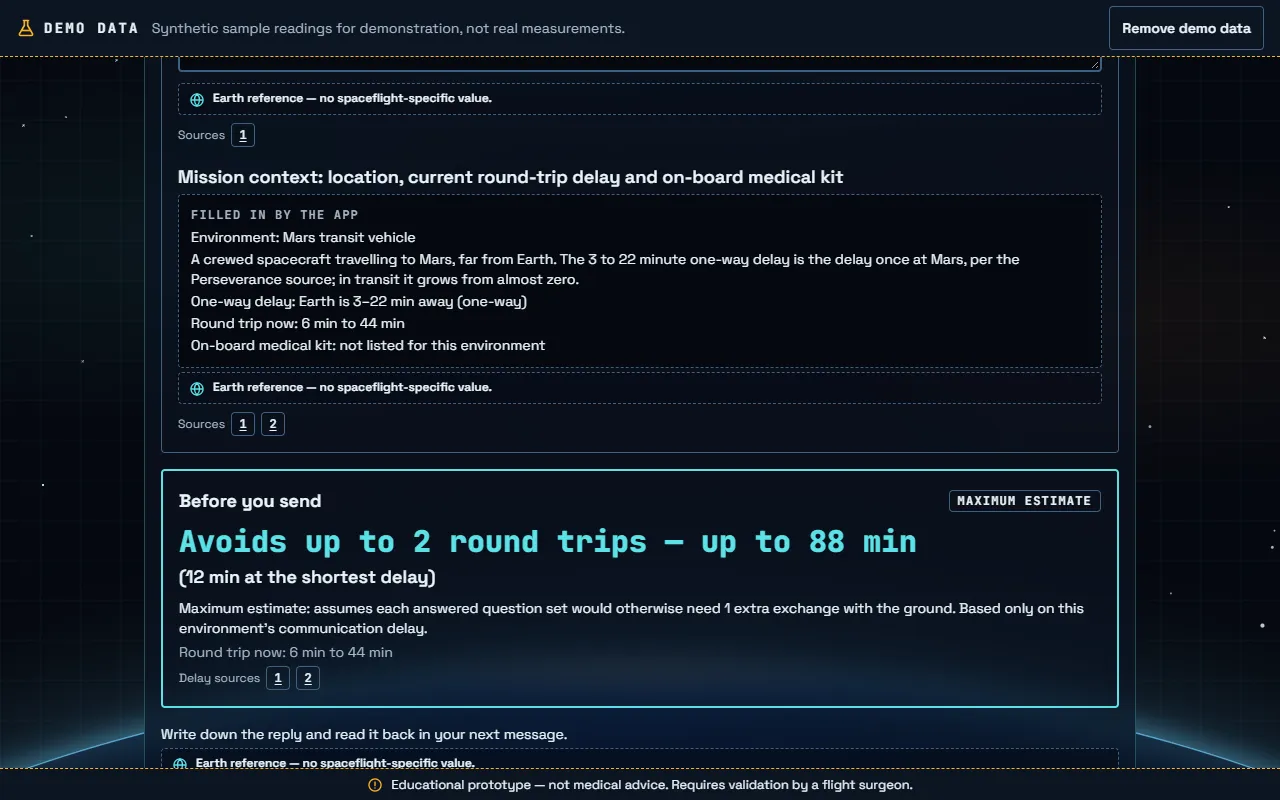
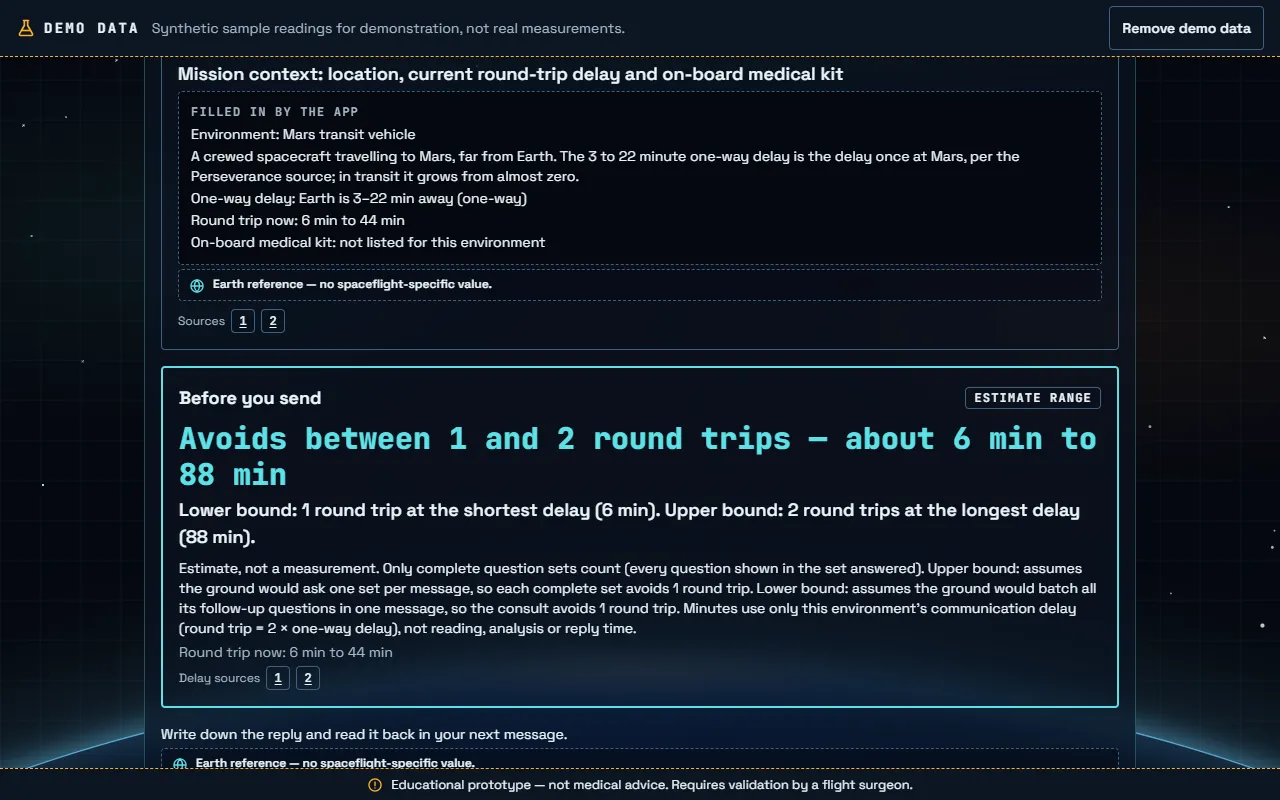
docs: guion, README y pitch alineados con la demo coherente y el contador en rango
- Guion de video: orden nuevo (consciente con dolor de pecho → consult → contador →
  colapso → protocolo → informe), tabla de tiempos actualizada, sin "leaves nothing to
  ask"; la voz en off dice que el contador es un rango estimado.
- README y pitch: contador "Avoids between 1 and N round trips — about A to B" con sus
  dos supuestos (Marte, N = 2: 6 a 88 min) y orden nuevo de la Guided demo.
- Captura del contador regenerada; progress.md y si-log.md.

Changed region(s): [[0.125, 0.0625, 0.875, 0.8125]]

diff --git a/README.md b/README.md
@@ -9,23 +9,23 @@ A NASA Space Apps Challenge 2026 project for the challenge *Create Health Monito
 
 Earth Is Far is a browser app that helps astronauts who are not doctors check their own health, understand the result and act on it, even when the flight surgeon is minutes of signal delay away. A command takes 3 to 22 minutes to reach Mars one way (NASA Science), and the Canadian Space Agency notes that Moon and Mars missions mean less ability to rely on Earth for emergency medical assistance. The app treats that **communication delay as a design variable**: when ground help is needed and the delay is above a configurable threshold, it says to act now with the crew protocol and then report to ground, and it shows the earliest and latest time an answer from Earth could arrive. Every scientific claim in the app links to a source, and all content lives in JSON files, not in code.
 
-**The signature feature is the One-shot consult:** a medical consult rethought for a delayed conversation. Instead of a question-and-answer loop with Earth, where every follow-up costs a full round trip, the crew answers in advance the questions a doctor would usually ask back and sends everything in one message. A counter shows how many round trips that can avoid, as a maximum estimate computed only from the environment's communication delay.
+**The signature feature is the One-shot consult:** a medical consult rethought for a delayed conversation. Instead of a question-and-answer loop with Earth, where every follow-up costs a full round trip, the crew answers in advance the questions a doctor would usually ask back and sends everything in one message. A counter shows how many round trips that can avoid, as an estimate range computed only from complete question sets and the environment's communication delay.
 
 | Status board (demo data) | One-shot consult counter |
 |---|---|
-| ![Status board with the body map, vital signs and trends; demo data, Mars transit vehicle](docs/screenshots/status-board.webp) | ![One-shot consult counter: Avoids up to 2 round trips, up to 88 min, labeled Maximum estimate](docs/screenshots/one-shot-consult-counter.webp) |
+| ![Status board with the body map, vital signs and trends; demo data, Mars transit vehicle](docs/screenshots/status-board.webp) | ![One-shot consult counter: Avoids between 1 and 2 round trips, about 6 min to 88 min, labeled Estimate range, with its assumptions](docs/screenshots/one-shot-consult-counter.webp) |
 
 ### Key features
 
 - **One-shot consult (Downlink report).** Pick the main problem (chest pain, abdominal pain, headache, injury, breathing, fever or feeling unwell, other), then answer by module: OPQRST for acute pain, SAMPLE for a focused history, a 0–10 pain scale, injury questions and the minimum data for a remote physician. Chest pain first links to the step-by-step protocol. The app fills in the UTC time, the latest readings with their time and the mission context (environment, delay, on-board kit). 28 questions, each with its source (14 sources, loaded only from an independent verification pass). It does not diagnose or suggest treatment. The answers go into the report text and JSON, with "not answered" where blank; the draft is saved on the device and removed by Clear saved data.
-- **Round-trip counter.** "Avoids up to *N* round trips — up to *X* min", labeled **Maximum estimate**. *N* = question sets with at least one answer × `consult.round_trips_per_answered_set` (1, a design assumption in `config/app.json`); *X* = *N* × 2 × the selected environment's sourced one-way delay, plus the figure at the shortest delay when there is a range. On the Mars transit vehicle (3–22 min one way), two answered sets read "up to 88 min (12 min at the shortest delay)". No paper figures and no analysis time are used; without a verified delay it shows no minutes.
+- **Round-trip counter.** "Avoids between 1 and *N* round trips — about *A* to *B* min", labeled **Estimate range**, with its assumptions on screen. Only **complete** question sets count: every question shown in the set (not filled in by the app, not hidden by a skip rule) has an answer. *N* = complete sets × `consult.upper_round_trips_per_complete_set` (1: the ground would ask one set per message). The lower bound is `consult.lower_round_trips` (1: the ground would batch all its follow-up questions in one message). Minutes: *A* = lower bound × 2 × the shortest one-way delay; *B* = *N* × 2 × the longest one-way delay, both from the selected environment's sourced delay. On the Mars transit vehicle (3–22 min one way), two complete sets read "Avoids between 1 and 2 round trips — about 6 min to 88 min". With no complete set it claims no saving; without a verified delay it shows no minutes. No paper figures and no analysis or reply time are used.
 - **Status board (HUD).** A body figure with clickable zones (head, chest, abdomen, arm, whole body). Each zone shows the worst status of its indicators, and the zone details panel lists the readings, the NASA hazards each indicator watches and what to do. Vital-sign rows, 7-day trend charts, a status ring and the delay / ground-answer panel sit around the body. Status is always color **plus** icon **plus** text.
 - **Honest trend extrapolation.** Each 7-day chart can extend a dotted, neutral least-squares line 24 h past the last reading (`hud.projection` in `config/app.json`: design parameters, not medical), after a "Now" divider and labeled "Trend extrapolation (demo) — not a medical prediction". It never predicts a status or a range crossing.
 - **Daily check.** A step-by-step wizard for 6 indicators (heart rate, blood pressure, blood glucose, body temperature, sleep, mood). For each one it explains **how to measure** in plain words, why it matters and how often, then takes the value, shows the status, what to do and who to escalate to (self, crew or flight surgeon on the ground), with the expected answer time.
 - **Emergency mode.** An always-visible red Emergency button opens large step-by-step cards. Each step is marked as done with a timestamp, with a running timer and a log that survives a reload. Protocols: *Crewmate collapsed / not responding* (recognition and call for help from Earth guidance, plus microgravity CPR from the DGLRM/ESAM-SMG guideline) and *Crewmate with chest pain (conscious)*, which links to the collapse protocol.
 - **Downlink report.** One complete message for the flight surgeons, so no back-and-forth is needed: readings with trends, the emergency action log, the One-shot consult, a checklist of what to include, and the **ground answer window** (now + 2 × the one-way delay). Copy it, or download it as `.txt` or `.json`.
 - **Environments.** Mars transit vehicle, lunar surface base, space station and remote clinic on Earth. The selected environment's delay changes the escalation guidance.
-- **Guided demo.** A button on the status board runs a scripted walkthrough of about 90 seconds (a Mars emergency with demo data) that ends with the One-shot consult and its counter. It restores the environment, emergency log, consult draft and demo data when it ends.
+- **Guided demo.** A button on the status board runs a scripted walkthrough of about 90 seconds with demo data, following the challenge scenario: a heart-rate alert, the crewmate is conscious with chest pain and answers the One-shot consult (demo answers of a fictional crewmate), the counter, then the crewmate collapses and the crew follows the collapse protocol, ending on the Downlink report. It restores the environment, emergency log, consult draft and demo data when it ends.
 - **Sources view with per-datum coverage.** Every source with URL, access date, licence and verification status, and where each source is cited. A verification summary counts coverage **per data point** (each instruction, threshold, action, protocol step and environment delay): today **57 of 79 data points are sourced** (indicators 44 of 61, protocol steps 11 of 14, environment delays 2 of 4), computed by `src/logic/coverage.ts`. Unsourced data never shows a raw PLACEHOLDER marker: the UI says "No verified source yet".
 - **Accessibility.** Keyboard navigation, skip link, AA contrast, reduced-motion support, and axe checks in the QA suite.
 - **No backend.** Readings stay in the browser (localStorage). Demo readings are synthetic, labeled DEMO DATA and removable.
@@ -83,10 +83,10 @@ All content lives in JSON. Components only read and display it. Changing the mis
 | `data/demo-readings.json` | Synthetic DEMO DATA covering about 7 days (status is evaluated from the ranges, never stored) |
 | `data/consult.json` | The One-shot consult: help texts, symptoms, question sets (OPQRST, SAMPLE, pain scale, injury, remote physician) and answer types, each with sources or marked as design text |
 | `data/guided-demo.json` | The Guided demo script (scenario, demo consult answers and steps) |
-| `config/app.json` | App name, tagline, theme tokens, feature flags, realtime threshold, disclaimer, body image, HUD layout (including the trend extrapolation) and the consult counter assumption |
+| `config/app.json` | App name, tagline, theme tokens, feature flags, realtime threshold, disclaimer, body image, HUD layout (including the trend extrapolation) and the consult counter assumptions |
 | `config/strings.en.json` | Every UI text (English) |
 
-**Validation.** All files are validated with **zod** when the app loads, plus cross-checks (every `source_ids` entry exists, ranges touch without gaps or overlaps, linked protocols exist, consult modules and `skip_if` references exist, guided demo step durations add up to the declared total and its demo consult answers are valid options). A mistake shows a content error screen listing the **file**, the **field path** (for example `indicators[2].ranges[1].min` in `data/indicators.json`) and the problem in plain words.
+**Validation.** All files are validated with **zod** when the app loads, plus cross-checks (every `source_ids` entry exists, ranges touch without gaps or overlaps, linked protocols exist, consult modules and `skip_if` references exist, guided demo step durations add up to the declared total and its demo consult answers match each question type and options). A mistake shows a content error screen listing the **file**, the **field path** (for example `indicators[2].ranges[1].min` in `data/indicators.json`) and the problem in plain words.
 
 **VERIFIED vs PLACEHOLDER.** Anything without a verified source is marked `"status": "PLACEHOLDER"` (or its text starts with `PLACEHOLDER:`), and the UI shows a placeholder badge. The schema refuses `VERIFIED` without at least one source, and a `VERIFIED` source needs a real http(s) URL and an access date. Nobody invents medical thresholds, figures or quotes. Design parameters (escalation levels, `realtime_threshold_s`, body zones, chosen measuring intervals) are labeled as design decisions in each file's `_comment`.
 
@@ -102,7 +102,7 @@ All content lives in JSON. Components only read and display it. Changing the mis
 
 ### How the Guided demo is defined
 
-`data/guided-demo.json` holds a `scenario` (environment `spacecraft`, alert indicator `heart_rate`, protocol `crew_collapse_chest_pain`, and `consult`: symptom `chest_pain` with two DEMO answers, "Suddenly" for onset and "No" for known allergies) and a list of `steps`. Each step has a `route` (hash of the view), a CSS `target` to highlight (may use `{zone}` / `{indicator}`), a `caption_key` from `config/strings.en.json`, a `duration_ms`, and an optional `action` (`set_environment`, `select_alert_zone`, `open_protocol`, `mark_step_done`, `open_consult`, `select_consult_symptom`, `fill_consult_demo`). The loader checks that the demo answers are real options of questions in that symptom's modules. `design_total_duration_ms` must equal the sum of the step durations (90 s today). The flow (14 steps): environment → status board → alert zone → alert vital → ground answer → Emergency button → protocol → two steps marked done with the log → One-shot consult opened → chest pain selected → two demo answers → the counter → Downlink report with the answer window. With reduced motion on, the demo does not advance by itself (use Next). When it ends (Finish, Esc or a reload), the environment, emergency session and log, consult draft and demo readings go back to how they were. The `guided_demo` flag in `config/app.json` turns the button on or off.
+`data/guided-demo.json` holds a `scenario` (environment `spacecraft`, alert indicator `heart_rate`, protocol `crew_collapse_chest_pain`, and `consult`: symptom `chest_pain` with DEMO answers of a fictional crewmate, given while conscious: the OPQRST and pain-scale sets complete (for example onset "Suddenly", "pressure", centre of the chest, 6 of 10) and only allergies ("No") from SAMPLE, so SAMPLE does not count) and a list of `steps`. Each step has a `route` (hash of the view), a CSS `target` to highlight (may use `{zone}` / `{indicator}`), a `caption_key` from `config/strings.en.json`, a `duration_ms`, and an optional `action` (`set_environment`, `select_alert_zone`, `open_protocol`, `mark_step_done`, `open_consult`, `select_consult_symptom`, `fill_consult_demo`). Each demo answer has `value` (a choice option or 0–10), `text` (free text) or `minutes_ago` (a time relative to when the demo runs); the loader checks them against the question type in that symptom's modules. `design_total_duration_ms` must equal the sum of the step durations (90 s today). The flow (14 steps): environment → status board → alert zone → alert vital → ground answer → One-shot consult opened → chest pain selected (with the link to the conscious chest-pain protocol) → the conscious crewmate's demo answers → the counter → the crewmate collapses: Emergency button → collapse protocol → two steps marked done with the log → Downlink report with the consult, the log and the answer window. With reduced motion on, the demo does not advance by itself (use Next). When it ends (Finish, Esc or a reload), the environment, emergency session and log, consult draft and demo readings go back to how they were. The `guided_demo` flag in `config/app.json` turns the button on or off.
 
 ## Sources and verification
 
@@ -140,7 +140,7 @@ This project was built with heavy AI assistance. Every relevant use is logged in
   - Mood: a personal 1–5 log with no labels, ranges or actions; a validated screen (PHQ-2) is verified but not implemented.
 - **Chest-pain protocol is partial:** the alert channel, medication and positioning steps are PLACEHOLDER. The collapse protocol is VERIFIED but its recognition and call-for-help steps are Earth guidance.
 - **Earth ranges are not validated for spaceflight.** Every range is an Earth reference for adults and carries that label in the app.
-- **The consult counter is a maximum estimate.** "1 extra exchange per answered question set" is a design assumption, not a measured figure, and the minutes come only from the environment's delay (no reading, analysis or reply time). The consult only collects information: no diagnosis, no treatment advice, no photo attachment. Several of its items are maritime or Earth emergency references and are labeled as such.
+- **The consult counter is an estimate range.** Both bounds are design assumptions, not measured figures: 1 round trip if the ground batches its questions, 1 per complete set if it asks set by set. The minutes come only from the environment's delay (no reading, analysis or reply time). The consult only collects information: no diagnosis, no treatment advice, no photo attachment. Several of its items are maritime or Earth emergency references and are labeled as such.
 - **The trend extrapolation is not a prediction.** It is a straight line through demo readings, shown only to illustrate the chart.
 - **Delays:** space station and remote clinic have no sourced communication delay yet.
 - **Demo data is synthetic** (DEMO DATA), not real measurements.

diff --git a/docs/video-script.md b/docs/video-script.md
@@ -1,40 +1,39 @@
 # Video script — Earth Is Far (60–90 s)
 
-Target length: about 88 seconds. The middle of the video follows the **Guided demo** (`data/guided-demo.json`, 14 steps, 90 s on its own): environment → status board → alert → Emergency → protocol steps → **One-shot consult** (chest pain, two demo answers, counter) → Downlink report. The demo is trimmed in editing (or advanced with Next) to fit the voice-over. Every figure said aloud comes from `data/sources.json` or is computed by the app:
+Target length: about 88 seconds. The middle of the video follows the **Guided demo** (`data/guided-demo.json`, 14 steps, 90 s on its own): environment → status board → heart-rate alert → the crewmate is **conscious with chest pain** and answers the **One-shot consult** (chest pain, demo answers of a fictional crewmate, counter) → the crewmate **collapses** → Emergency → collapse protocol steps → Downlink report. Nobody asks an unconscious person about their pain: the consult happens while the crewmate can still talk. The demo is trimmed in editing (or advanced with Next) to fit the voice-over. Every figure said aloud comes from `data/sources.json` or is computed by the app:
 
 - Mars one-way delay **3 to 22 minutes**: NASA Science, *Speaking Percy's Language* (`nasa_perseverance_comms`).
 - Moon and Mars missions bring **less ability to rely on Earth for emergency medical assistance**: Canadian Space Agency (`csa_why_science_in_space`). Paraphrased, not quoted.
 - On a Mars mission, **consulting doctors on Earth in real time may be impractical**: Yule et al. 2023 (`yule_2023_crew_autonomy`). Paraphrased.
 - OPQRST and SAMPLE are memory aids used in emergency care: Saranteas et al. 2019, Jayaprakash et al. 2016.
 - The answer window (6 to 44 minutes) is the app's own calculation: 2 × the one-way delay.
-- The counter "**Avoids up to 2 round trips — up to 88 min**" is the app's own **maximum estimate**: 2 answered question sets × 1 extra exchange per set (a design assumption) × the 44-minute maximum round trip. Always say "up to" and "estimate"; never present it as a measured saving.
+- The counter "**Avoids between 1 and 2 round trips — about 6 min to 88 min**" is the app's own **estimate range**. Only *complete* question sets count (every question in the set answered); the demo completes 2 (OPQRST and the pain scale). Lower bound: 1 round trip (if the ground batched all its follow-up questions in one message) × the 6-minute shortest round trip. Upper bound: 2 round trips (one per complete set, if the ground asked one set per message) × the 44-minute longest round trip. Both are design assumptions. Always say "estimate" and "between"; never present it as a measured saving.
 
 ## Guided demo timing (as defined in `data/guided-demo.json`)
 
 | Step | Duration | Step | Duration |
 |---|---|---|---|
-| 1 Environment | 6 s | 8 Protocol step marked done | 5 s |
-| 2 Status board | 5 s | 9 Protocol log | 5 s |
-| 3 Alert zone | 6 s | 10 One-shot consult opens | 6 s |
-| 4 Alert vital | 5 s | 11 Chest pain selected | 6 s |
-| 5 Ground answer | 6 s | 12 Two demo answers | 7 s |
-| 6 Emergency button | 4 s | 13 Counter | 10 s |
-| 7 Protocol opens | 7 s | 14 Downlink report | 12 s |
+| 1 Environment | 6 s | 8 Demo answers from the conscious crewmate | 8 s |
+| 2 Status board | 5 s | 9 Counter (estimate range) | 9 s |
+| 3 Alert zone | 6 s | 10 Crewmate collapses: Emergency button | 5 s |
+| 4 Alert vital | 5 s | 11 Collapse protocol opens | 6 s |
+| 5 Ground answer | 5 s | 12 Protocol step marked done | 5 s |
+| 6 One-shot consult opens | 6 s | 13 Protocol log | 5 s |
+| 7 Chest pain selected, conscious protocol linked | 6 s | 14 Downlink report | 13 s |
 
 ## Script
 
 | Time | On screen | Voice-over |
 |---|---|---|
-| 0:00–0:07 | Black screen, then the status board fades in on the starfield. Title text: "Halfway to Mars." | "Halfway to Mars, a crewmate feels chest pain and collapses. You are not a doctor." |
+| 0:00–0:07 | Black screen, then the status board fades in on the starfield. Title text: "Halfway to Mars." | "Halfway to Mars, a crewmate feels a sharp pain in the chest. Minutes later, they collapse. You are not a doctor." |
 | 0:07–0:15 | Text over the board: "Mars → Earth: 3–22 min one way (NASA)". Then: "Less ability to rely on Earth for emergency medical help (Canadian Space Agency)". | "A message takes 3 to 22 minutes to reach Mars, one way. Crews going to Mars can rely less on Earth for emergency medical help." |
 | 0:15–0:19 | Cursor clicks **Guided demo**. Step 1: Mars transit vehicle selected, header shows the delay. | "Earth Is Far is a health copilot built around that delay." |
-| 0:19–0:28 | Steps 2–4: overall status, the chest zone lights up on the body map, the heart-rate row with its trend. DEMO DATA banner visible. | "With demo data, heart rate needs attention, and the chest lights up. Every value links to its source." |
-| 0:28–0:32 | Steps 5–6: the **Delay & ground answer** panel, then the red **Emergency** button. | "Then the crewmate stops responding. One tap on Emergency." |
-| 0:32–0:43 | Steps 7–9: protocol *Crewmate collapsed / not responding*; a step is marked done; the timestamped log grows. | "Large, step-by-step cards, including CPR from a microgravity guideline. Every step is logged with its time." |
-| 0:43–0:52 | Steps 10–11: **One-shot consult** opens in the Downlink report; "Chest pain or pressure" is selected; the "Open the protocol first" note shows. | "Now the part we rethought. A medical consult is a conversation, and on Mars every follow-up question costs a round trip. So the app asks the doctor's usual questions up front: OPQRST for the pain, SAMPLE for the history." |
-| 0:52–0:57 | Step 12: two answers are picked (onset: Suddenly; allergies: No). Caption says DEMO. | "The crew answers what they can, and the app adds the time, the latest readings and the mission context." |
-| 0:57–1:08 | Step 13: the counter is highlighted: **"Avoids up to 2 round trips — up to 88 min"**, badge "Maximum estimate". Hold on it. | "This counter shows what one complete message can save: up to two round trips, up to 88 minutes here. It's a maximum estimate, based only on the communication delay. No diagnosis, no treatment advice: just one message that leaves nothing to ask." |
-| 1:08–1:15 | Step 14: back to the top of the **Downlink report**, the expected answer window highlighted. Click Copy. | "The downlink report sends it all at once. For Mars, the answer comes 6 to 44 minutes later. So the app says: act now, then report." |
+| 0:19–0:28 | Steps 2–5: overall status, the chest zone lights up on the body map, the heart-rate row with its trend, then the **Delay & ground answer** panel. DEMO DATA banner visible. | "With demo data, heart rate needs attention, and the chest lights up. Every value links to its source." |
+| 0:28–0:38 | Steps 6–7: **One-shot consult** opens in the Downlink report; "Chest pain or pressure" is selected; the link to the protocol for a conscious crewmate with chest pain shows first. | "The crewmate is still conscious. A medical consult is a conversation, and on Mars every follow-up question costs a round trip. So, while they can talk, the app asks the doctor's usual questions up front: OPQRST for the pain, SAMPLE for the history." |
+| 0:38–0:45 | Step 8: the crewmate's answers fill in (onset: Suddenly; "pressure"; centre of the chest; pain 6 of 10; allergies: No). Caption says DEMO answers of a fictional crewmate. | "The crewmate answers in their own words, and the app adds the time, the latest readings and the mission context. It records answers; it does not diagnose." |
+| 0:45–0:55 | Step 9: the counter is highlighted: **"Avoids between 1 and 2 round trips — about 6 min to 88 min"**, badge "Estimate range", the assumptions line below. Hold on it. | "The counter is an estimate range. Only complete question sets count. If Earth batches its follow-up questions, this saves one round trip; if it asks one set at a time, up to two. Here that is about 6 to 88 minutes, from the communication delay alone." |
+| 0:55–1:05 | Steps 10–13: the crewmate collapses; the red **Emergency** button; protocol *Crewmate collapsed / not responding*; a step is marked done; the timestamped log grows. | "Then the crewmate stops responding. One tap on Emergency: large step-by-step cards, including CPR from a microgravity guideline, each logged with its time." |
+| 1:05–1:15 | Step 14: the **Downlink report**: the consult answered before the collapse, the protocol log and the expected answer window highlighted. Click Copy. | "The downlink report sends it all at once: what the crewmate said while conscious, and what the crew did. For Mars, the answer comes 6 to 44 minutes later. So the app says: act now, then report." |
 | 1:15–1:20 | Quick cut: **Sources** view, "57 of 79 data points sourced". | "Every data point shows whether it has a verified source. What doesn't, says so." |
 | 1:20–1:24 | On-screen text: "Educational prototype — not medical advice. Earth reference ranges, synthetic demo data." | "It's a prototype, and a flight surgeon still has to validate it." |
 | 1:24–1:28 | Logo "Earth Is Far", tagline, repository / app link. | "Earth is far. Help shouldn't wait for a second message." |
@@ -44,7 +43,7 @@ Target length: about 88 seconds. The middle of the video follows the **Guided de
 - **Window size 1440 × 900** (browser zoom 100 %). That is the size the HUD layout was tuned for.
 - **Use the demo data.** On a fresh browser profile the demo readings load on the first visit (DEMO DATA banner). If you removed them, the Guided demo loads them again and removes them at the end. Never record real personal readings or a real consult.
 - **Start from the Guided demo button** on the status board. It runs about 90 s on its own; use Pause / Next to match the voice-over, or trim in editing. Esc exits. The demo opens a fresh consult and puts back any consult draft you had when it ends.
-- **Hold on the counter** (step 13) long enough to read it; pause the demo there if needed. The numbers depend on the selected environment (Mars transit vehicle).
+- **Hold on the counter** (step 9) long enough to read it; pause the demo there if needed. The numbers depend on the selected environment (Mars transit vehicle).
 - **Turn reduced motion off while recording** (Windows: Settings → Accessibility → Visual effects → Animation effects on). With reduced motion on, the demo does not advance by itself and the HUD animations stop.
 - **Captions:** burn in captions for the whole voice-over (many judges watch muted). Don't let them cover the demo's own captions or the highlighted element.
 - Keep the "Educational prototype — not medical advice" notice visible; don't crop it out.

diff --git a/docs/pitch.md b/docs/pitch.md
@@ -1,7 +1,7 @@
 # Earth Is Far — Health guidance for when help is light-minutes away
 
 ## The problem
-Halfway to Mars, a crewmate collapses. You are not a doctor, and the flight surgeon is far away: a command takes **3 to 22 minutes** to reach Mars one way, depending on planetary orbits (NASA Science [1]). Double that before an answer comes back. From the Moon the signal takes **1.27 s** on average (ESA [2]), so lunar crews can still talk to the ground. Mars crews can't. The Canadian Space Agency writes that Moon and Mars missions bring longer communication delays and **less ability to rely on Earth for emergency medical assistance** [3]. NASA's Human Research Program lists **five hazards** of human spaceflight, one of them distance from Earth: the farther the crew travels, the harder it is to get medical care from Earth [4][5].
+Halfway to Mars, a crewmate feels a sharp pain in the chest, and minutes later collapses. You are not a doctor, and the flight surgeon is far away: a command takes **3 to 22 minutes** to reach Mars one way, depending on planetary orbits (NASA Science [1]). Double that before an answer comes back. From the Moon the signal takes **1.27 s** on average (ESA [2]), so lunar crews can still talk to the ground. Mars crews can't. The Canadian Space Agency writes that Moon and Mars missions bring longer communication delays and **less ability to rely on Earth for emergency medical assistance** [3]. NASA's Human Research Program lists **five hazards** of human spaceflight, one of them distance from Earth: the farther the crew travels, the harder it is to get medical care from Earth [4][5].
 
 A medical consult is a conversation. The doctor asks, the patient answers, the doctor asks again. On the ISS, medical data go to flight surgeons on the ground for interpretation (Levin et al. [7]). On a Mars mission, consulting doctors on Earth in real time may be impractical (Yule et al. [8]): every follow-up question costs a full round trip.
 
@@ -11,7 +11,7 @@ A medical consult is a conversation. The doctor asks, the patient answers, the d
 - **Pick the main problem** (chest pain, abdominal pain, headache, injury, breathing, fever or feeling unwell, other). Chest pain first points to the step-by-step protocol: act now, consult after.
 - **Answer by module,** using structures from emergency care: **OPQRST** for acute pain (Saranteas et al. [9]), **SAMPLE** for a short focused history (Jayaprakash et al. [10]), a 0–10 pain scale, injury questions and the minimum data for a remote physician. The idea of filling in a form *before* asking for radio medical advice comes from maritime practice (UK MCA, *Ship Captain's Medical Guide* [11]); the app labels it as an Earth reference.
 - **The app fills in what it already knows:** UTC time, latest readings with their time, environment, current delay and on-board kit.
-- **A live counter shows the payoff:** "Avoids up to *N* round trips — up to *X* min". It is computed by the app, not taken from a paper: *N* = answered question sets × 1 extra exchange per set (a design assumption in `config/app.json`), and *X* = *N* × 2 × the selected environment's sourced one-way delay. On the Mars transit vehicle, answering two sets reads "Avoids up to 2 round trips — up to 88 min (12 min at the shortest delay)". It is labeled **Maximum estimate**; without a verified delay it shows no minutes.
+- **A live counter shows the payoff as a range:** "Avoids between 1 and *N* round trips — about *A* to *B* min". It is computed by the app, not taken from a paper. Only **complete** question sets count (every question in the set answered); *N* = complete sets. The upper bound assumes the ground would ask one set per message (*N* round trips at the longest one-way delay); the lower bound assumes it would batch all its follow-up questions in one message (1 round trip at the shortest delay). Both assumptions live in `config/app.json` and are shown under the counter. On the Mars transit vehicle (3–22 min one way), two complete sets read "Avoids between 1 and 2 round trips — about 6 min to 88 min", labeled **Estimate range**. With no complete set it claims nothing; without a verified delay it shows no minutes.
 - **No diagnosis, no treatment advice.** It only collects information. 28 questions, each with its source; 14 sources behind the module, from an independent verification pass (60 items: 38 VERIFIED, 16 VERIFIED-WITH-EDIT, 1 REJECTED, 5 BLOCKED; only the first two were loaded).
 
 Checklists and clinical guidance tools can help crews work with long communication delays (Yule et al. [8]). The One-shot consult is that idea, turned into a form that fits in one transmission.
@@ -21,7 +21,7 @@ Checklists and clinical guidance tools can help crews work with long communicati
 - **Daily check:** a wizard for 6 indicators: how to measure, why it matters, status, what to do and who to escalate to (self, crew, or flight surgeon on the ground).
 - **Emergency mode:** an always-visible red button opens large step-by-step cards, each logged with a timestamp. *Crewmate collapsed / not responding* includes microgravity CPR from the DGLRM/ESAM-SMG guideline [6].
 - **Downlink report:** one complete message for the flight surgeons with readings, trends, the emergency log, the One-shot consult and the expected answer window (now + 2 × one-way delay).
-- **Guided demo:** about 90 seconds, from an alert on the body map to the emergency protocol, the One-shot consult and its counter. It leaves nothing saved.
+- **Guided demo:** about 90 seconds, in the challenge's order: a heart-rate alert; the crewmate is conscious with chest pain and answers the One-shot consult (demo answers of a fictional crewmate); the counter; then the crewmate collapses and the crew follows the collapse protocol; the Downlink report carries both. It leaves nothing saved.
 
 ## What makes it different
 - **The delay is a design variable,** not a footnote. Escalation says *"Act now with the crew protocol, then report to ground"* when the delay is above a configurable threshold, and the consult is built to avoid round trips.
@@ -31,7 +31,7 @@ Checklists and clinical guidance tools can help crews work with long communicati
 
 ## Honest limits
 - **Educational prototype, not medical advice.** A flight surgeon must validate it. A notice on every screen says so.
-- **The counter is a maximum estimate.** The "1 extra exchange per answered set" is our design assumption, not a measured figure, and the minutes come only from the environment's delay (no analysis or reply time).
+- **The counter is an estimate range.** "One round trip if the ground batches its questions" and "one per complete set if it asks set by set" are our design assumptions, not measured figures, and the minutes come only from the environment's delay (no analysis or reply time).
 - Health ranges are **Earth references** and none has been validated for spaceflight; the app labels each one. Several consult items are maritime or Earth emergency references and are labeled too.
 - **Still without a verified source:** all 6 indicators have at least one part unsourced (frequency, a critical threshold, or actions); the chest-pain protocol's alert, medication and positioning steps; the delays of the space station and the remote clinic.
 - **Demo data is synthetic** and labeled DEMO DATA. No offline mode yet. No photo attachment in the consult.

diff --git a/docs/progress.md b/docs/progress.md
@@ -41,6 +41,8 @@
 
 - 2026-11-14 — Etapa 5 (integración y presentación, 3 commits): (1) `0c820b9` la Guided demo sigue después del protocolo al Downlink report: abre un borrador nuevo del One-shot consult (`open_consult`), elige `chest_pain` (`select_consult_symptom`), marca dos respuestas DEMO de `scenario.consult.demo_answers` (o_how "Suddenly", a_allergies "No": un set cada una → "Avoids up to 2 round trips — up to 88 min" en Marte) (`fill_consult_demo`) y destaca el contador antes de la ventana del informe. 14 pasos, total 90 s (6/5/6/5/6/4/7/5/5/6/6/7/10/12 s). El loader valida síntoma, preguntas del síntoma (solo choice / escala 0-10), opciones, ruta `#/report` y orden; caption admite `{symptom}`. Sin restos: el borrador previo vuelve al salir (Finish, Esc o recarga). (2) `78c6a83` capturas del README en `docs/screenshots/` (WebP 0,8; 1280x800 + Pixel 7; 68–207 KB). (3) Docs: pitch con el One-shot consult como diferencial (consulta médica repensada para una conversación con retardo; contador explicado como estimación máxima), README (consult, contador, extrapolación, cobertura 57/79, 62 fuentes / 61 VERIFIED, capturas, declaración de IA con ChatGPT gratis y términos de OpenAI pendientes), guion de video de ~88 s con el momento del contador. Lint OK, build OK, unit 167/167, e2e guided-demo + consult 10/10 (1 worker).
 
+- 2026-11-14 — Correcciones del juez de la etapa 5 (`docs/scorecards/2026-11-14-etapa5.md`, 3 commits): (1) `727d8b2` Guided demo con orden clínico coherente, como el video del desafío: alerta de pulso → tripulante CONSCIENTE con dolor de pecho → One-shot consult (chest_pain, enlace a `crew_chest_pain_conscious`) → respuestas DEMO de un tripulante ficticio → contador → COLAPSO → Emergency → `crew_collapse_chest_pain` → Downlink report con consult + log + ventana. Antes se hacía OPQRST después de la RCP. 14 pasos, 90 s (6/5/6/5/5/6/6/8/9/5/6/5/5/13 s). `demo_answers` admite `value` / `text` / `minutes_ago`, validados por tipo de pregunta; OPQRST y Pain scale completos, SAMPLE solo alergias. (2) `3a62c22` contador honesto: solo cuentan sets COMPLETOS (todas las preguntas visibles no auto respondidas) y se muestra un rango "Avoids between 1 and N round trips — about A to B": cota baja = `lower_round_trips` (tierra agrupa todo) × 2 × retardo mínimo; cota alta = N × `upper_round_trips_per_complete_set` (un set por mensaje) × 2 × retardo máximo. Marte, N = 2: 6 a 88 min. N = 0 sin ahorro; retardo desconocido sin minutos. Badge "Estimate range", línea de supuestos, marca "Complete" por módulo; JSON del informe con `complete_sets`, `round_trips {min,max}`, `saved_s {min,max}`. (3) Docs: guion de video sin "leaves nothing to ask" y con el orden nuevo, README y pitch con el rango; captura del contador regenerada. Lint OK, build OK, unit 173/173, e2e guided-demo + consult + report + smoke 18/18 (1 worker).
+
 ## En curso
 - Rediseño visual: etapa 2A commiteada; próximas etapas a definir.
 

diff --git a/docs/si-log.md b/docs/si-log.md
@@ -33,3 +33,4 @@ Una línea por uso relevante. Sirve para completar la descripción de uso de IA 
 | 2026-11-14 | Claude Code (Opus 5.5) | Validez visible: cobertura de fuentes por dato (src/logic/coverage.ts) en Sources (tabla indicador × instrucciones/por qué/frecuencia/rangos/acciones, pasos de protocolo y demora por entorno; 58 de 79 datos con fuente) y helper único DataText/plainDataText que reemplaza el marcador PLACEHOLDER por "No verified source yet" en daily, board, emergencia, entorno, fuentes y reporte | Lint/build OK, unit 145/145, e2e sources+daily+smoke 14/14, emergency 4/4, QA hardcode+axe+thresholds 32/32 (1 worker); capturas 1440x900 revisadas |
 | 2026-11-14 | Claude Code (Opus 5.5) | One-shot consult en el Downlink report: `data/consult.json` (solo VERIFIED / VERIFIED-WITH-EDIT de `docs/research/5-verificacion.md`, textos UX sin fuente, avisos [EARTH]) + 16 fuentes nuevas, esquema zod y chequeos cruzados, formulario por módulo con campos automáticos, enlace previo al protocolo de dolor de pecho, contador de idas y vueltas evitadas (estimación máxima, solo desde `environments.json`), sección en texto/JSON y borrador validado en storage | Lint/build OK, unit 163/163, e2e consult+report+smoke 12/12, guided-demo+sources 8/8, QA hardcode+a11y 42/42 (UNMAPPED 0, 1 worker); capturas 1440x900 y Pixel 7 revisadas |
 | 2026-11-14 | Claude Code (Opus 5.5) | Etapa 5: Guided demo extendida al One-shot consult (acciones open_consult / select_consult_symptom / fill_consult_demo con validación en el loader, respuestas DEMO desde JSON, borrador restaurado al salir), capturas del README con Playwright (WebP), pitch / README / guion de video reescritos con el consult como diferencial; cobertura y conteo de fuentes calculados con la lógica de la app | Lint/build OK, unit 167/167, e2e guided-demo+consult 10/10 (1 worker); capturas revisadas una por una; cifras del pitch cotejadas con data/sources.json y la UI |
+| 2026-11-14 | Claude Code (Opus 5.5) | Correcciones del juez etapa 5: Guided demo reordenada (consult del tripulante consciente antes del colapso y del protocolo de RCP; respuestas DEMO completas con texto y hora relativa) y contador del One-shot consult honesto (solo sets completos, rango de 1 a N round trips con minutos de retardo mínimo a máximo); guion, README y pitch alineados | Lint/build OK, unit 173/173, e2e guided-demo+consult+report+smoke 18/18 (1 worker); captura del contador regenerada y revisada |
